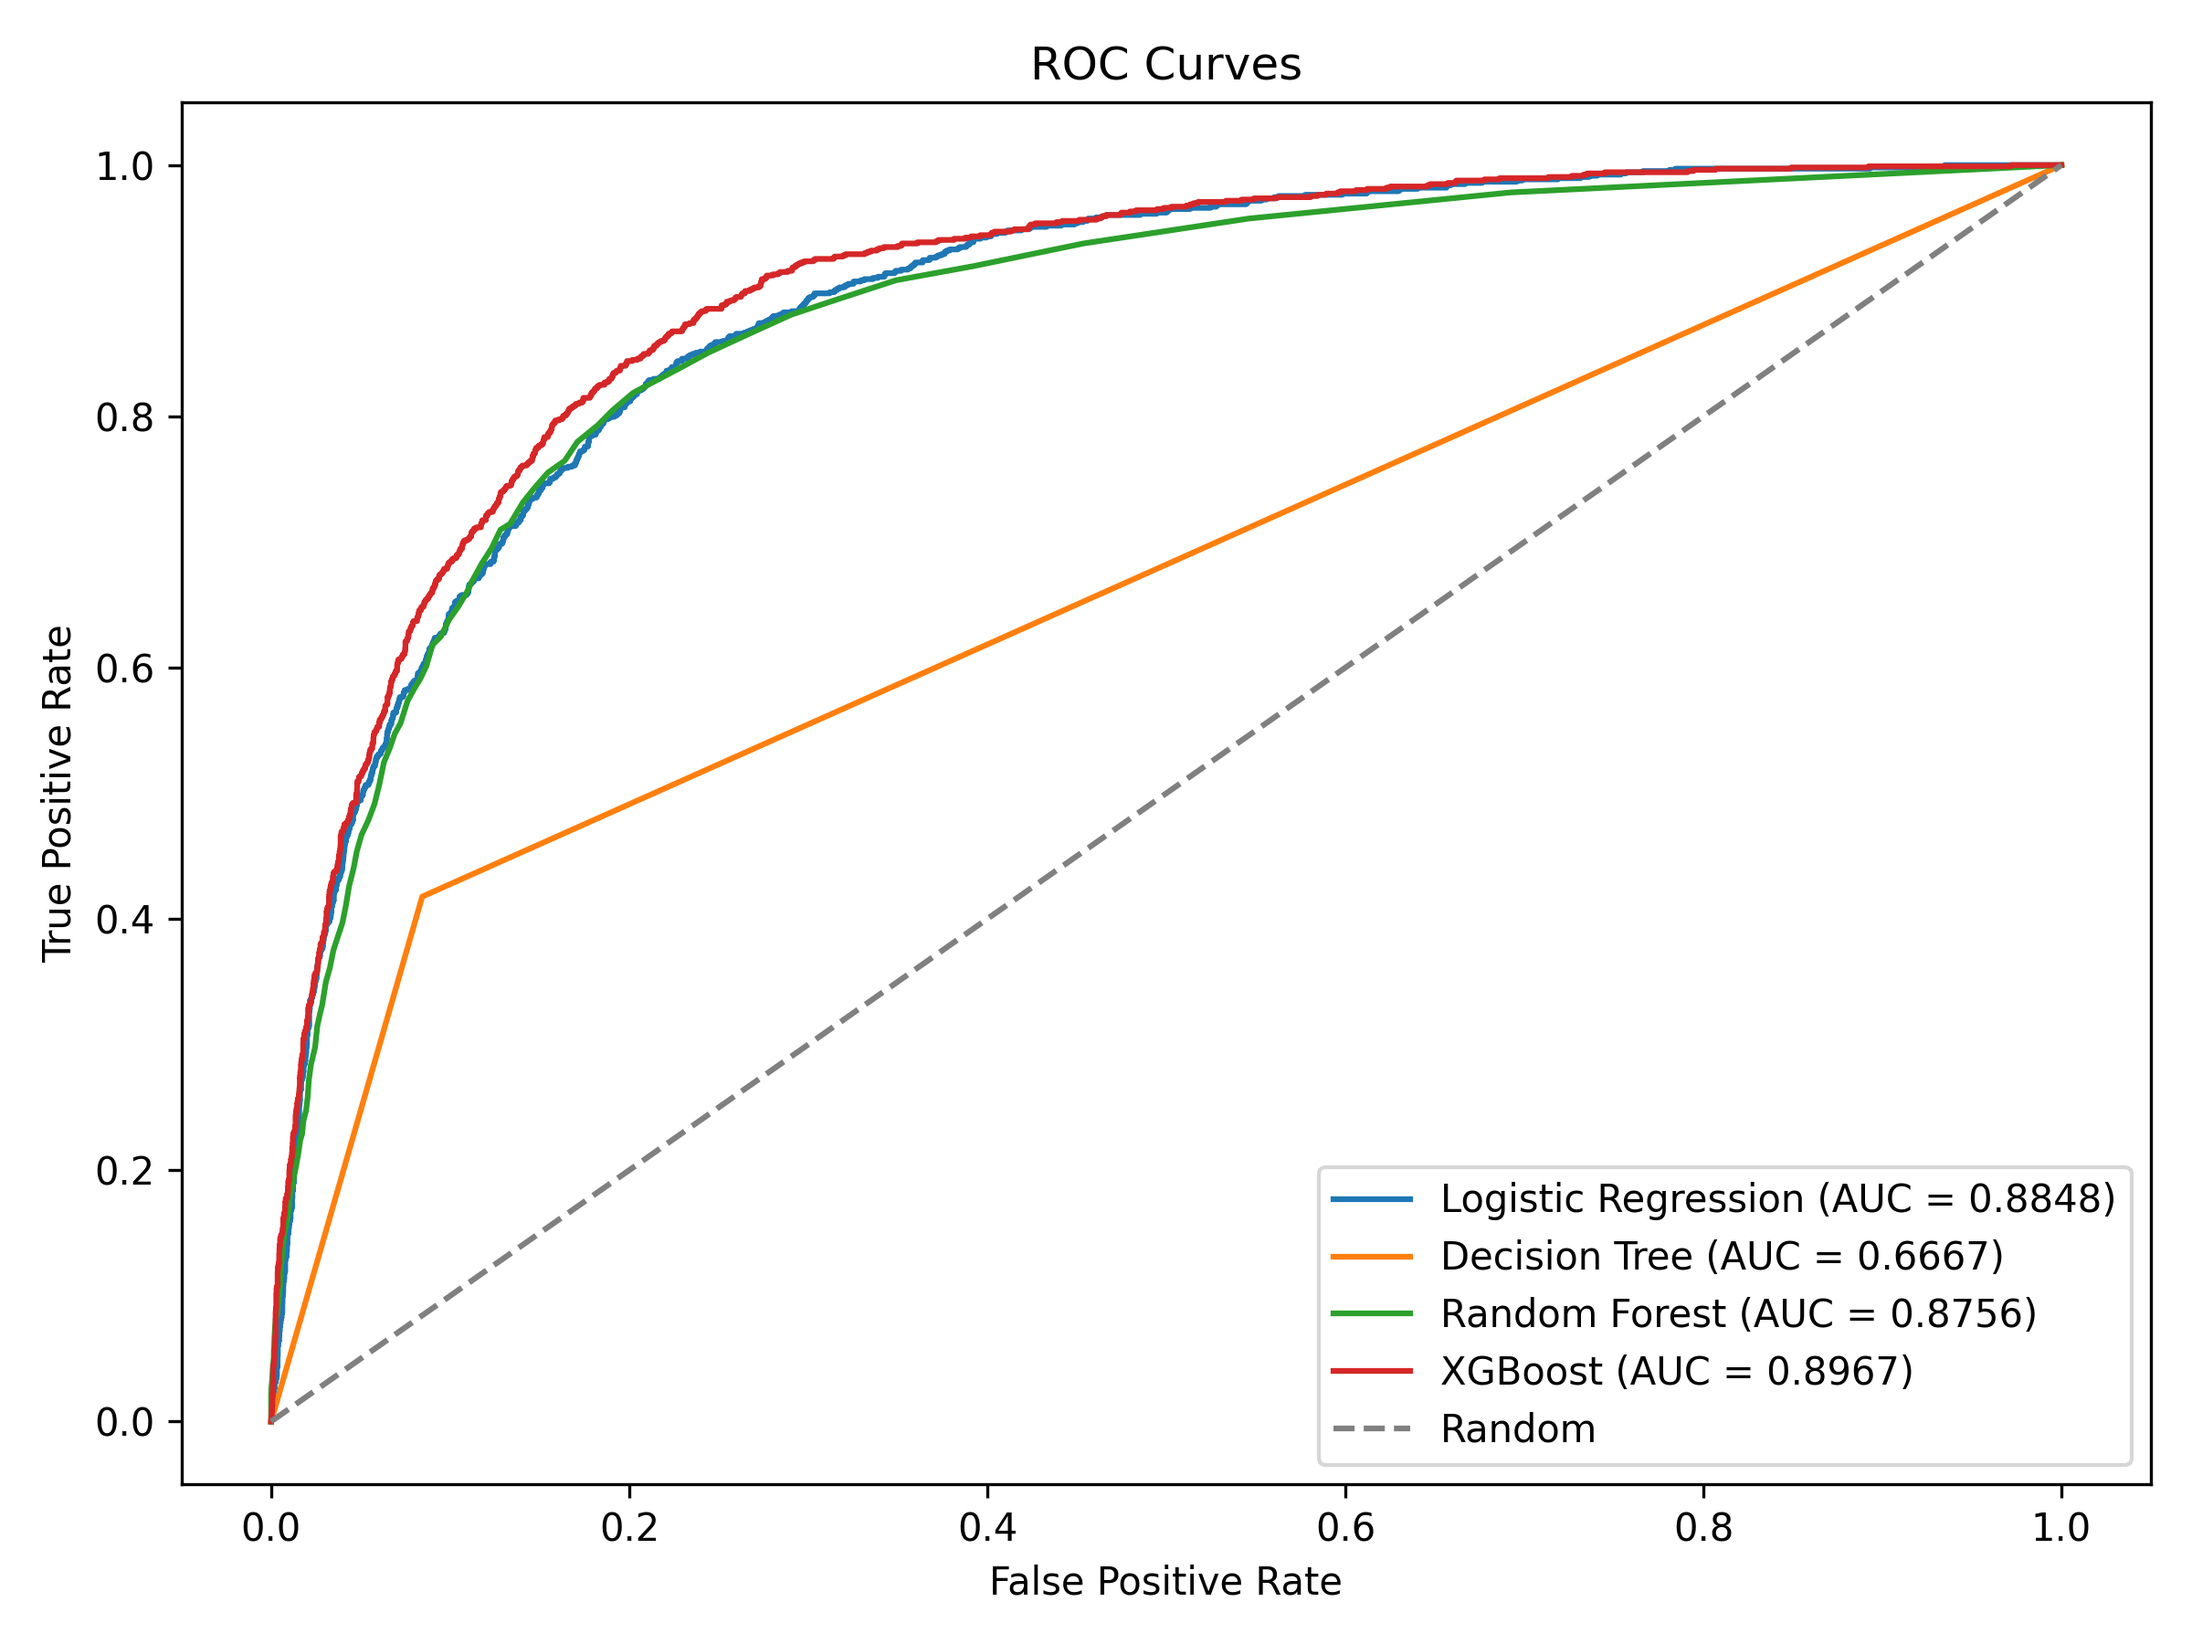
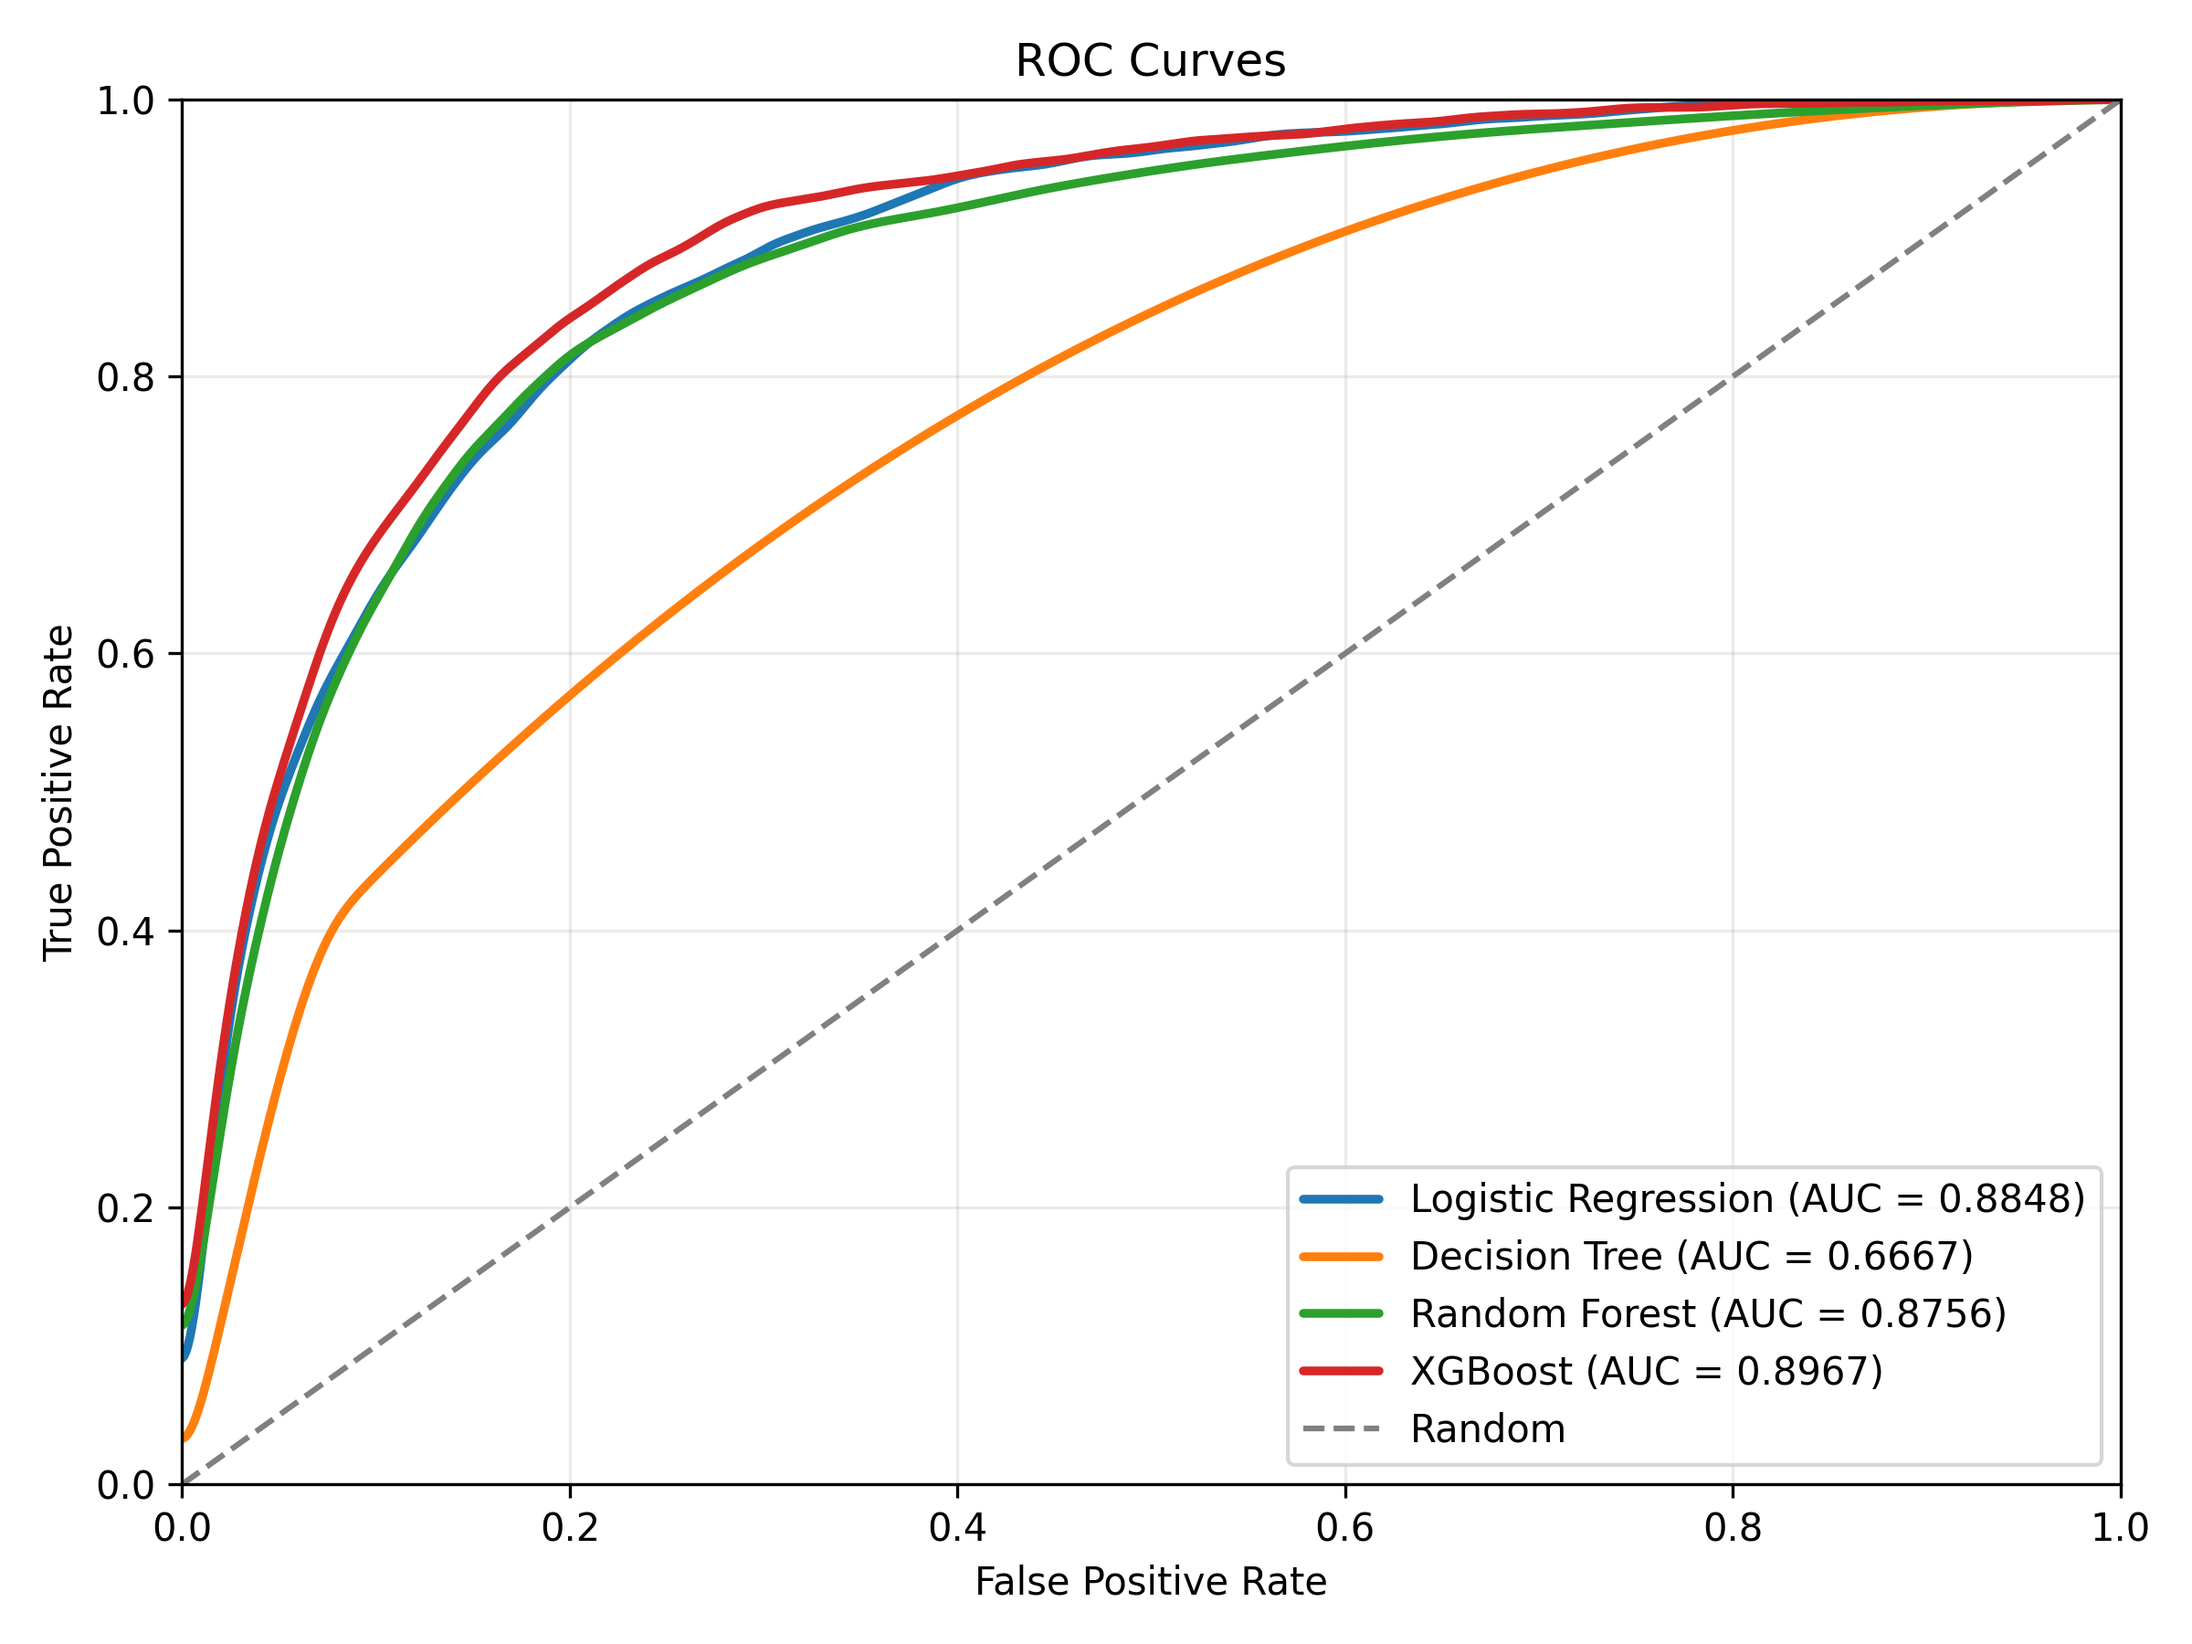
Smooth ROC curves and update outputs

diff --git a/src/modeling.py b/src/modeling.py
@@ -7,7 +7,10 @@ os.environ.setdefault("MPLCONFIGDIR", str(cache_dir / "matplotlib"))
 os.environ.setdefault("XDG_CACHE_HOME", str(cache_dir))
 
 import matplotlib.pyplot as plt
+import numpy as np
 import pandas as pd
+from scipy.interpolate import PchipInterpolator
+from scipy.ndimage import gaussian_filter1d
 from sklearn.ensemble import RandomForestClassifier
 from sklearn.linear_model import LogisticRegression
 from sklearn.metrics import (
@@ -147,6 +150,22 @@ def save_metric_comparison_plot(comparison_table, output_dir):
     return output_path
 
 
+def smooth_roc_points(false_positive_rate, true_positive_rate, points=1000):
+    """Return presentation-friendly ROC points without changing AUC calculation."""
+    unique_fpr, first_index = np.unique(false_positive_rate, return_index=True)
+    unique_tpr = np.maximum.reduceat(true_positive_rate, first_index)
+
+    if len(unique_fpr) < 3:
+        return false_positive_rate, true_positive_rate
+
+    smooth_fpr = np.linspace(0, 1, points)
+    smooth_tpr = PchipInterpolator(unique_fpr, unique_tpr)(smooth_fpr)
+    smooth_tpr = gaussian_filter1d(smooth_tpr, sigma=8)
+    smooth_tpr = np.clip(np.maximum.accumulate(smooth_tpr), 0, 1)
+
+    return smooth_fpr, smooth_tpr
+
+
 def save_roc_curve_plot(model_outputs, y_test, output_dir):
     plt.figure(figsize=(8, 6))
 
@@ -154,18 +173,36 @@ def save_roc_curve_plot(model_outputs, y_test, output_dir):
         false_positive_rate, true_positive_rate, _ = roc_curve(
             y_test,
             output["probabilities"],
+            drop_intermediate=False,
         )
         roc_auc = auc(false_positive_rate, true_positive_rate)
-        plt.plot(
+        smooth_fpr, smooth_tpr = smooth_roc_points(
             false_positive_rate,
             true_positive_rate,
+        )
+        plt.plot(
+            smooth_fpr,
+            smooth_tpr,
+            linewidth=2.3,
+            solid_capstyle="round",
+            solid_joinstyle="round",
             label=f"{model_name} (AUC = {roc_auc:.4f})",
         )
 
-    plt.plot([0, 1], [0, 1], linestyle="--", color="gray", label="Random")
+    plt.plot(
+        [0, 1],
+        [0, 1],
+        linestyle="--",
+        color="gray",
+        linewidth=1.5,
+        label="Random",
+    )
     plt.title("ROC Curves")
     plt.xlabel("False Positive Rate")
     plt.ylabel("True Positive Rate")
+    plt.xlim(0, 1)
+    plt.ylim(0, 1)
+    plt.grid(alpha=0.25)
     plt.legend(loc="lower right")
     plt.tight_layout()
 

diff --git a/README.md b/README.md
@@ -81,7 +81,7 @@ Windows:
 Install the required packages:
 
 ```bash
-pip install pandas matplotlib scikit-learn xgboost
+pip install pandas matplotlib scipy scikit-learn xgboost
 ```
 
 ## Run the Project
